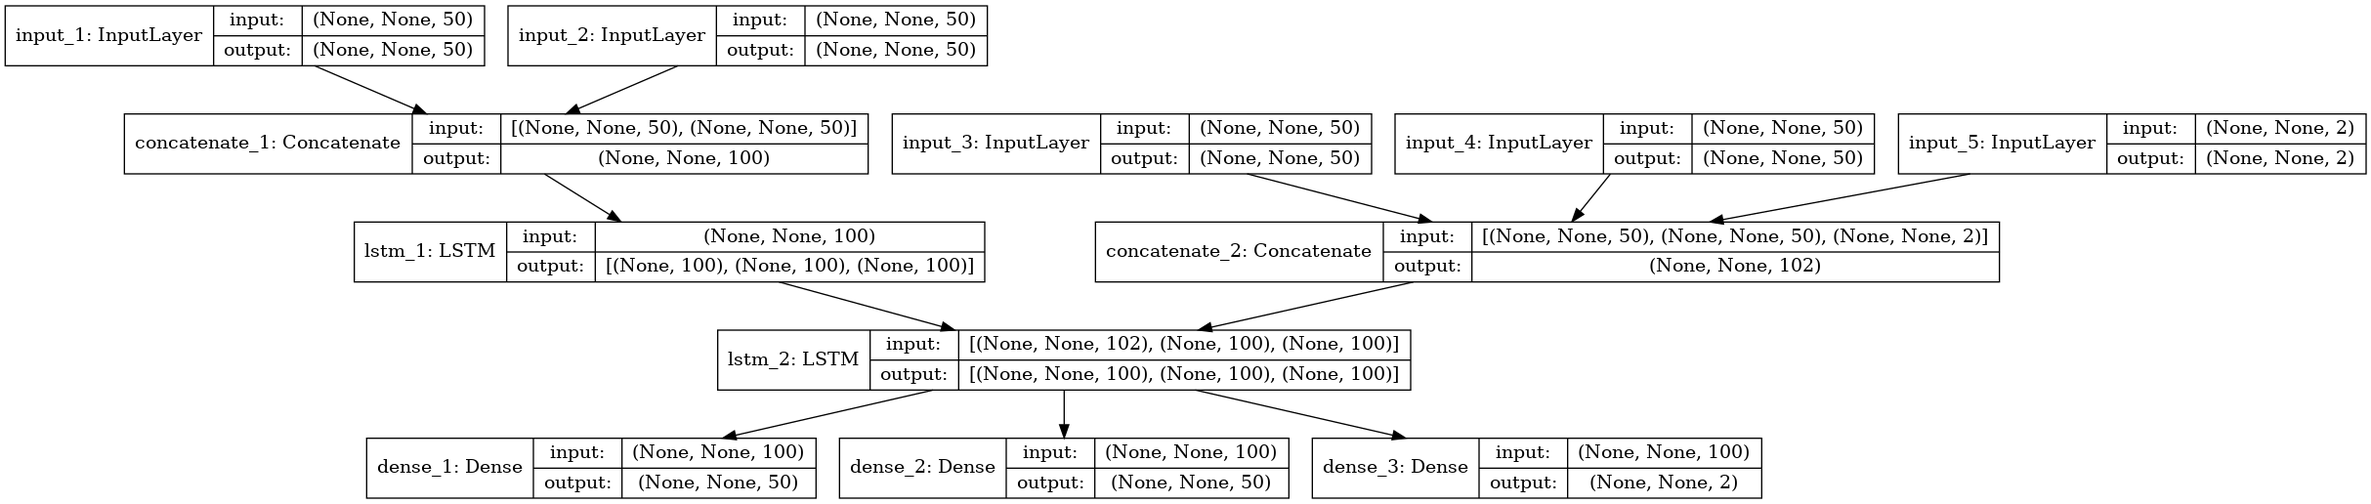
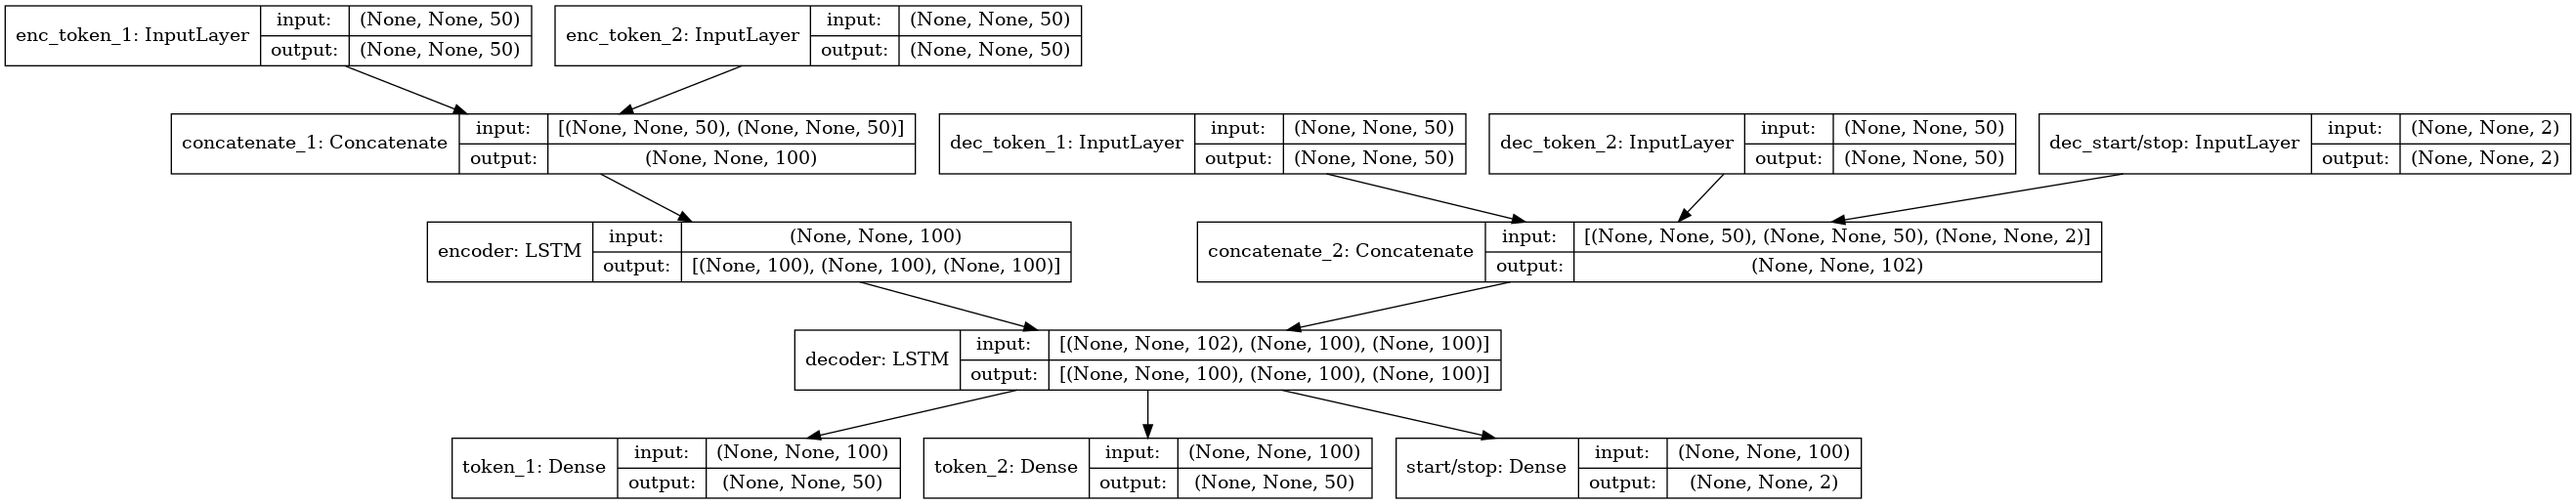
can now train the model and the decoupled model is built

diff --git a/nested-enc-dec.py b/nested-enc-dec.py
@@ -26,25 +26,33 @@ outer_decoder.load_weights("models/decoder_len5.h5")
 # Prepare input
 corpus = np.loadtxt(sys.argv[1], dtype=object)
 
+# Each letter that represents a role will be mapped to the encoding for a
+# random word from the corpus.
 mapping = {}
 for letter in string.ascii_lowercase[:10]:
-    mapping[letter] = encode.onehot(random.choice(corpus))
-
+    onehot = encode.onehot(random.choice(corpus))
+    mapping[letter] = outer_encoder.predict(np.array([onehot]))
 x_train = []
 roles = np.loadtxt(sys.argv[2], dtype=object)
 for sentence in roles:
     x_train.append([mapping[letter] for letter in sentence])
-x_train = np.array(x_train)
+x_train = np.array(x_train) # shape (n, 3, 2, 1, 50)
+t1 = x_train[:,:,0,0,:] # new shape (n,3,50)
+t2 = x_train[:,:,1,0,:] # " '' "
+# 4 time steps. pre
+pre_t1 = np.concatenate((np.zeros((x_train.shape[0],1,50)), t1), axis = 1)
+pre_t2 = np.concatenate((np.zeros((x_train.shape[0],1,50)), t2), axis = 1)
+post_t1 = np.concatenate((t1, np.zeros((x_train.shape[0],1,50))), axis = 1)
+post_t2 = np.concatenate((t2, np.zeros((x_train.shape[0],1,50))), axis = 1)
 
-# Convert encodings into gestalt representations
-X = [outer_encoder.predict(word) for word in x_train]
-X = np.array(X)
-# Reminder: Each element in X is now a python List of two numpy arrays.
 
-# Slice X for the two numpy arrays
-X_state_h = X[:,0]
-X_state_c = X[:,1]
-t3 = {"start": [[0,1]], "stop": [[1,0]], "none": [[0,0]]}
+
+# Start or stop tokens
+s_s = {"start": [0,1], "stop": [1,0], "none": [0,0]}
+pre_t3 = np.zeros((x_train.shape[0], 4, 2))
+post_t3 = np.copy(pre_t3)
+pre_t3[:,0,:] = s_s["start"]
+post_t3[:,3,:] = s_s["stop"]
 
 
 
@@ -52,29 +60,29 @@ t3 = {"start": [[0,1]], "stop": [[1,0]], "none": [[0,0]]}
 # ----------------------------------
 # Encoder Construction
 hidden_size = 100
-encoder_input_t1 = keras.layers.Input(shape=(None, X.shape[3]))
-encoder_input_t2 = keras.layers.Input(shape=(None, X.shape[3]))
+encoder_input_t1 = keras.layers.Input(shape=(None, t1.shape[2]), name="enc_token_1")
+encoder_input_t2 = keras.layers.Input(shape=(None, t1.shape[2]), name="enc_token_2")
 encoder_input = keras.layers.Concatenate()([encoder_input_t1, encoder_input_t2])
 
-encoder_hidden = keras.layers.LSTM(hidden_size, return_state=True)
+encoder_hidden = keras.layers.LSTM(hidden_size, return_state=True, name="encoder")
 # Tie them together
 encoder_output, enc_state_h, enc_state_c = encoder_hidden(encoder_input)
 # Don't need the encoder outputs, just need the states.
 encoder_states = [enc_state_h, enc_state_c]
 
 ## Decoder Construction
-decoder_input_t1 = keras.layers.Input(shape=(None, X.shape[3]))
-decoder_input_t2 = keras.layers.Input(shape=(None, X.shape[3]))
-decoder_input_t3 = keras.layers.Input(shape=(None, 2))
+decoder_input_t1 = keras.layers.Input(shape=(None, t1.shape[2]), name="dec_token_1")
+decoder_input_t2 = keras.layers.Input(shape=(None, t1.shape[2]), name="dec_token_2")
+decoder_input_t3 = keras.layers.Input(shape=(None, 2), name="dec_start/stop")
 decoder_input = keras.layers.Concatenate()([decoder_input_t1, decoder_input_t2, decoder_input_t3])
 
-decoder_hidden = keras.layers.LSTM(hidden_size, return_sequences=True, return_state=True)
+decoder_hidden = keras.layers.LSTM(hidden_size, return_sequences=True, return_state=True, name="decoder")
 # Tie it together
 decoder_hidden_output, decoder_state_h, decoder_state_c = decoder_hidden(decoder_input,
                                                                          initial_state=encoder_states)
-decoder_dense_t1 = keras.layers.Dense(X.shape[3], activation='linear')
-decoder_dense_t2 = keras.layers.Dense(X.shape[3], activation='linear')
-decoder_dense_t3 = keras.layers.Dense(2, activation='linear')
+decoder_dense_t1 = keras.layers.Dense(t1.shape[2], activation='linear', name="token_1")
+decoder_dense_t2 = keras.layers.Dense(t1.shape[2], activation='linear', name="token_2")
+decoder_dense_t3 = keras.layers.Dense(2, activation='sigmoid', name="start/stop")
 # Connect output to hidden
 decoder_output = [decoder_dense_t1(decoder_hidden_output), decoder_dense_t2(decoder_hidden_output), decoder_dense_t3(decoder_hidden_output)]
 
@@ -85,25 +93,32 @@ keras.utils.plot_model(model, to_file="new_model.png", show_shapes=True)
 
 
 # Compile it...
-model.compile(loss = keras.losses.MSE,
+model.compile(loss = [keras.losses.MSE, keras.losses.MSE, keras.losses.binary_crossentropy],
                optimizer=keras.optimizers.Adam(),
                metrics=['accuracy'])
 
+model_input = {"enc_token_1": t1, "enc_token_2": t2, "dec_token_1": pre_t1, "dec_token_2": pre_t2, "dec_start/stop": pre_t3}
+model_target = {"token_1": post_t1, "token_2": post_t2, "start/stop": post_t3}
+
 # Train it
 batch_size = 100
-epochs = 400
-history = model.fit([X,preY], postY,
+epochs = 800
+history = model.fit(model_input, model_target,
                     batch_size=batch_size,
                     epochs=epochs,
                     verbose=1)
-print('Accuracy:', model.evaluate([X,preY],postY)[1]*100.0, '%')
+accuracy = model.evaluate(model_input, model_target)
+# use `model.metrics_names` to get indices for accuracy:
+print('T1 Accuracy:', accuracy[4]*100.0, '%')
+print('T2 Accuracy:', accuracy[5]*100.0, '%')
+print('T3 Accuracy:', accuracy[6]*100.0, '%')
 
 
 
 # Now remove the Teacher Forcing
 
 # Encoder
-encoder_model = keras.Model(encoder_input, encoder_states)
+encoder_model = keras.Model([encoder_input_t1, encoder_input_t2], encoder_states)
 
 # Decoder
 decoder_state_input_h = keras.layers.Input(shape=(hidden_size,))
@@ -114,23 +129,53 @@ decoder_hidden_output, decoder_state_h, decoder_state_c = decoder_hidden(decoder
                                                                          initial_state=decoder_states_input)
 decoder_states = [decoder_state_h, decoder_state_c]
 # hidden to outputs
-decoder_output = decoder_dense(decoder_hidden_output)
+
+decoder_output = [decoder_dense_t1(decoder_hidden_output), decoder_dense_t2(decoder_hidden_output), decoder_dense_t3(decoder_hidden_output)]
 decoder_model = keras.Model(
-    [decoder_input] + decoder_states_input,
-    [decoder_output] + decoder_states)
+    [decoder_input_t1, decoder_input_t2, decoder_input_t3] + decoder_states_input,
+    decoder_output + decoder_states)
 
+keras.utils.plot_model(encoder_model, to_file="new_encoder.png", show_shapes=True)
+keras.utils.plot_model(decoder_model, to_file="new_decoder.png", show_shapes=True)
 
-'''
-# Get result from inner decoder
-context = pass
-token = np.array(encode.onehot("start"))
-token = token.reshape([1, 1, token.shape[0]])
-result = np.zeros([1,6,28])
-output_length = 5
-for x in range(output_length+1):
-    out,h,c = outer_decoder.predict([token]+context)
-    token = np.round(out)
-    context = [h,c]
-    result[0,x,:] = token
-decoded_word = encode.check(result[0])
-'''
+#
+## Prepare testing data
+## Prepare input
+#corpus = np.loadtxt(sys.argv[1], dtype=object)
+#
+## Each letter that represents a role will be mapped to the encoding for a
+## random word from the corpus.
+#x_test = []
+#roles = np.loadtxt(sys.argv[3], dtype=object)
+#for sentence in roles:
+#    x_test.append([mapping[letter] for letter in sentence])
+#x_test = np.array(x_test) # shape (n, 3, 2, 1, 50)
+#t1 = x_test[:,:,0,0,:] # new shape (n,3,50)
+#t2 = x_test[:,:,1,0,:] # " '' "
+## 4 time steps. pre
+#pre_t1 = np.concatenate((np.zeros((x_test.shape[0],1,50)), t1), axis = 1)
+#pre_t2 = np.concatenate((np.zeros((x_test.shape[0],1,50)), t2), axis = 1)
+#post_t1 = np.concatenate((t1, np.zeros((x_test.shape[0],1,50))), axis = 1)
+#post_t2 = np.concatenate((t2, np.zeros((x_test.shape[0],1,50))), axis = 1)
+#
+## Start or stop tokens
+#pre_t3 = np.zeros((x_test.shape[0], 4, 2))
+#post_t3 = np.copy(pre_t3)
+#pre_t3[:,0,:] = s_s["start"]
+#post_t3[:,3,:] = s_s["stop"]
+#
+#
+#
+## Get result from inner decoder
+#context = pass
+#token = np.array(encode.onehot("start"))
+#token = token.reshape([1, 1, token.shape[0]])
+#result = np.zeros([1,6,28])
+#output_length = 5
+#for x in range(output_length+1):
+#    out,h,c = outer_decoder.predict([token]+context)
+#    token = np.round(out)
+#    context = [h,c]
+#    result[0,x,:] = token
+#decoded_word = encode.check(result[0])
+#

diff --git a/test.py b/test.py
@@ -14,131 +14,46 @@ import encode # My module
 import pickle, random, string
 
 
-# Import inner decoder
+# Import outer decoder
 with open('models/encoder_len5.json', 'r') as encoder_file, open('models/decoder_len5.json', 'r') as decoder_file:
     encoder_json = encoder_file.read()
     decoder_json = decoder_file.read()
-inner_encoder = keras.models.model_from_json(encoder_json)
-inner_decoder = keras.models.model_from_json(decoder_json)
-inner_encoder.load_weights("models/encoder_len5.h5")
-inner_decoder.load_weights("models/decoder_len5.h5")
+outer_encoder = keras.models.model_from_json(encoder_json)
+outer_decoder = keras.models.model_from_json(decoder_json)
+outer_encoder.load_weights("models/encoder_len5.h5")
+outer_decoder.load_weights("models/decoder_len5.h5")
 
 # Prepare input
 corpus = np.loadtxt(sys.argv[1], dtype=object)
 
 mapping = {}
 for letter in string.ascii_lowercase[:10]:
-   mapping[letter] = encode.onehot(random.choice(corpus))
-
-# Match letter combinations with words e.g. cef -> John Ate Fish
+    onehot = encode.onehot(random.choice(corpus))
+    mapping[letter] = outer_encoder.predict(np.array([onehot]))
+    
 x_train = []
 roles = np.loadtxt(sys.argv[2], dtype=object)
 for sentence in roles:
     x_train.append([mapping[letter] for letter in sentence])
 x_train = np.array(x_train)
+t1 = x_train[:,:,0,0,:]
+t2 = x_train[:,:,1,0,:]
 
-# Fill X with the gestalt representations for each word.
-X = []
-print(inner_encoder.predict(x_train[0:1,0,:]))
-
-'''
-for i in range(len(x_train)):
-    sentence = []
-    for j in range(3):
-        sentence.append(inner_encoder.predict(x_train[i:i+1,j,:]))
-    X.append(sentence)
-X = np.array(X)
-'''
-
-
-
-
-
-
-
-
-
-'''
-#!/usr/bin/env python3
-import keras
-import numpy as np
-import pickle
-import encode
-
-hidden_size = 50
-
+# Slice X for the two numpy arrays
+t3 = {"start": [[0,1]], "stop": [[1,0]], "none": [[0,0]]}
 
 X = []
-for i in range(100):
-    X.append(np.round(np.random.rand(3,50)))
-X = np.array(X)
-start = np.zeros(50)
-start[0] = 1
-stop = np.zeros(50)
-stop[49] = 1
-
-Y = []
-for input_vector in X:
-    Y.append(np.vstack([start, input_vector, stop]))
-Y = np.array(Y)
-
-preY = Y[:, 0:-1, :]
-postY = Y[:, 1:, :]
-
-# Encoder Construction
-encoder_input = keras.layers.Input(shape=(None, X.shape[2]))
-encoder_hidden = keras.layers.LSTM(hidden_size, return_state=True)
-# Tie them together
-encoder_output, enc_state_h, enc_state_c = encoder_hidden(encoder_input)
-# Don't need the encoder outputs, just need the states.
-encoder_states = [enc_state_h, enc_state_c]
-
-## Decoder Construction
-decoder_input = keras.layers.Input(shape=(None, preY.shape[2]))
-decoder_hidden = keras.layers.LSTM(hidden_size, return_sequences=True, return_state=True)
-# Tie it together
-decoder_hidden_output, decoder_state_h, decoder_state_c = decoder_hidden(decoder_input,
-                                                                         initial_state=encoder_states)
-decoder_dense = keras.layers.Dense(postY.shape[2], activation='softmax')
-# Connect output to hidden
-decoder_output = decoder_dense(decoder_hidden_output)
-
-
-# Finally, tie everything into a model
-model = keras.Model([encoder_input, decoder_input], decoder_output)
-
-# Compile it...
-model.compile(loss = keras.losses.categorical_crossentropy,
-               optimizer=keras.optimizers.Adam(),
-               metrics=['accuracy'])
-
-# Train it
-batch_size = 100
-epochs = 400
-history = model.fit([X,preY], postY,
-                    batch_size=batch_size,
-                    epochs=epochs,
-                    verbose=1)
-print('Accuracy:', model.evaluate([X,preY],postY)[1]*100.0, '%')
-
-
-
-# Now remove the Teacher Forcing
-
-# Encoder
-encoder_model = keras.Model(encoder_input, encoder_states)
-
-# Decoder
-decoder_state_input_h = keras.layers.Input(shape=(hidden_size,))
-decoder_state_input_c = keras.layers.Input(shape=(hidden_size,))
-# inputs to hidden
-decoder_states_input = [decoder_state_input_h, decoder_state_input_c]
-decoder_hidden_output, decoder_state_h, decoder_state_c = decoder_hidden(decoder_input,
-                                                                         initial_state=decoder_states_input)
-decoder_states = [decoder_state_h, decoder_state_c]
-# hidden to outputs
-decoder_output = decoder_dense(decoder_hidden_output)
-decoder_model = keras.Model(
-    [decoder_input] + decoder_states_input,
-    [decoder_output] + decoder_states)
-'''
+for i in range(t1.shape[0]):
+    X.append()
+## Convert encodings into gestalt representations
+#X = [outer_encoder.predict(word) for word in x_train]
+#X = np.array(X)
+#print(X.shape)
+## Reminder: Each element in X is now a python List of two numpy arrays.
+#
+## Slice X for the two numpy arrays
+#X_state_h = X[:,0]
+#X_state_c = X[:,1]
+#t3 = {"start": [[0,1]], "stop": [[1,0]], "none": [[0,0]]}
+#
+#print(X_state_h.shape)
